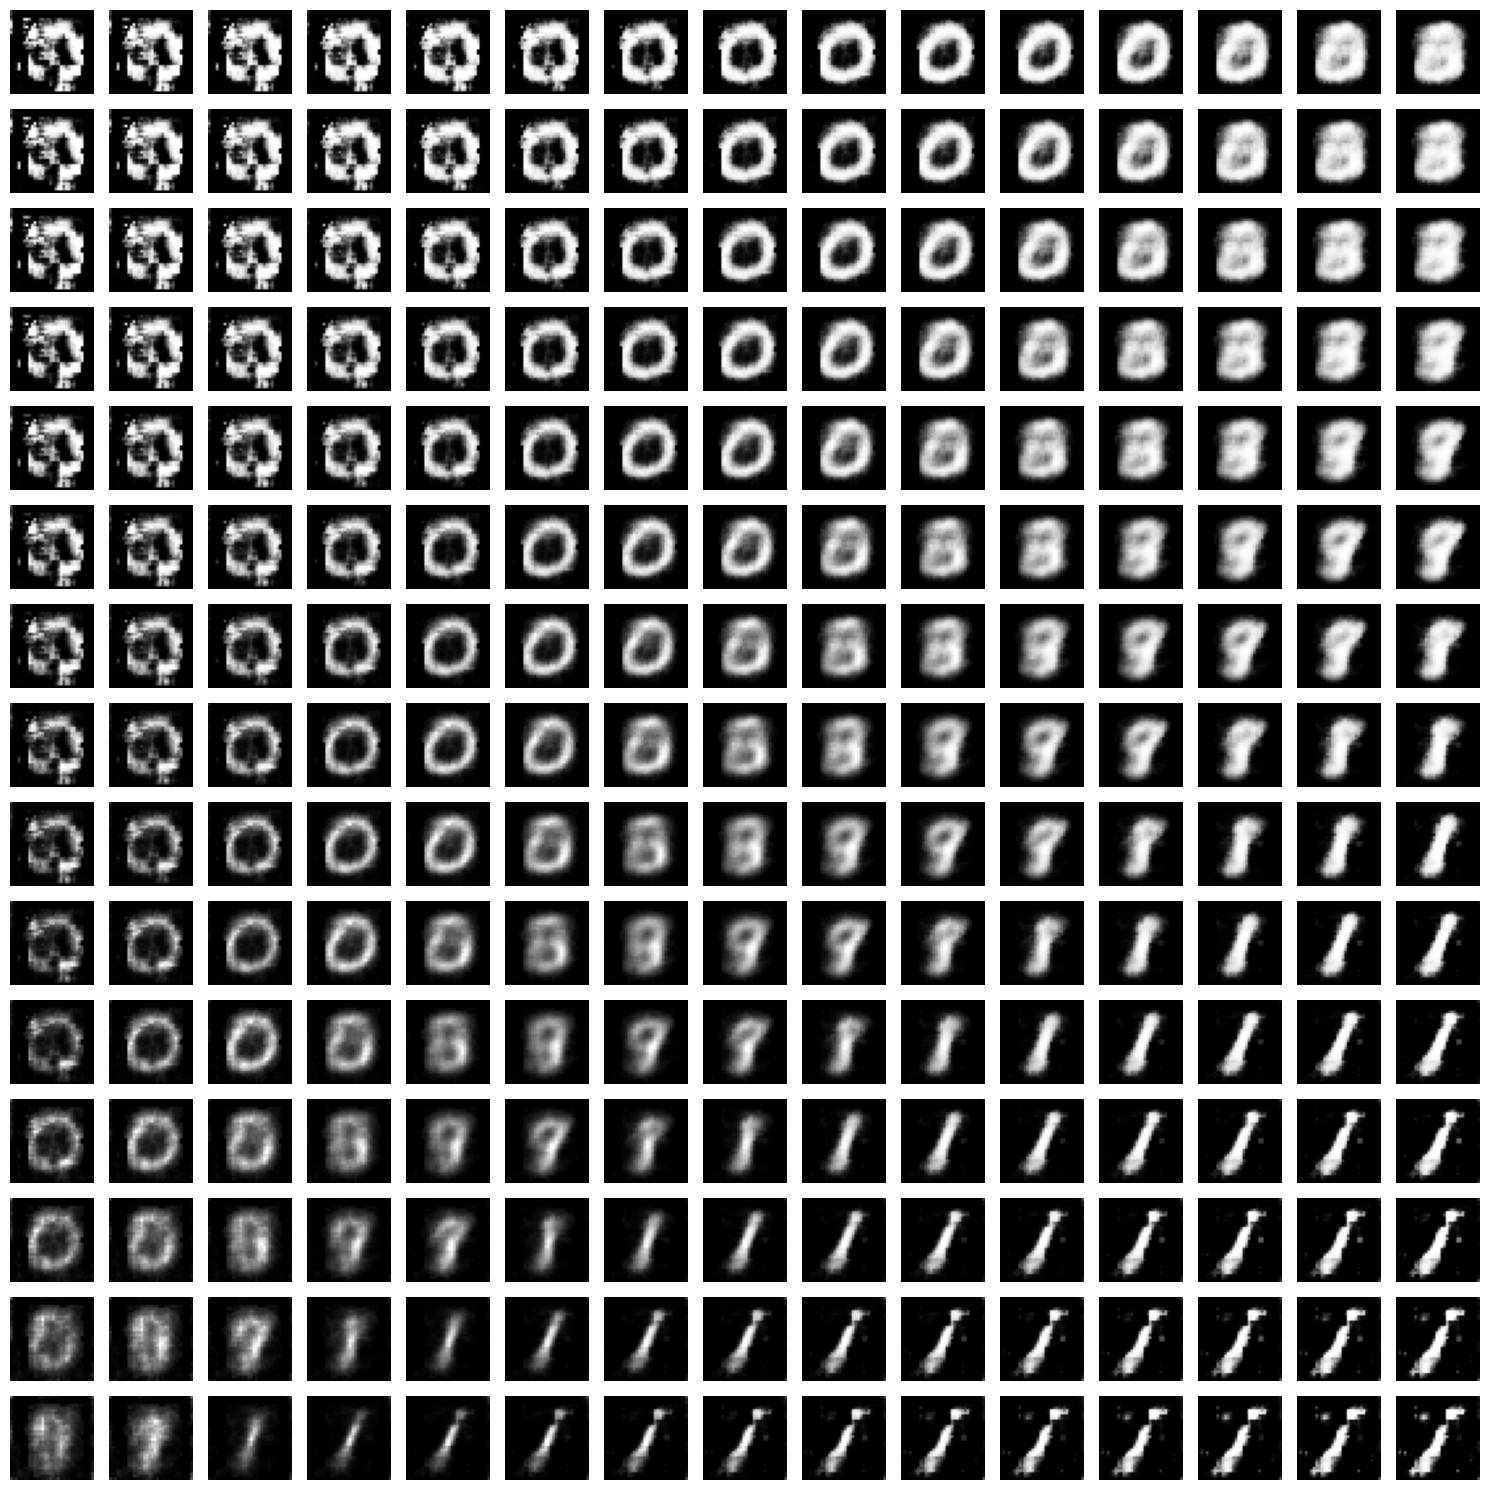
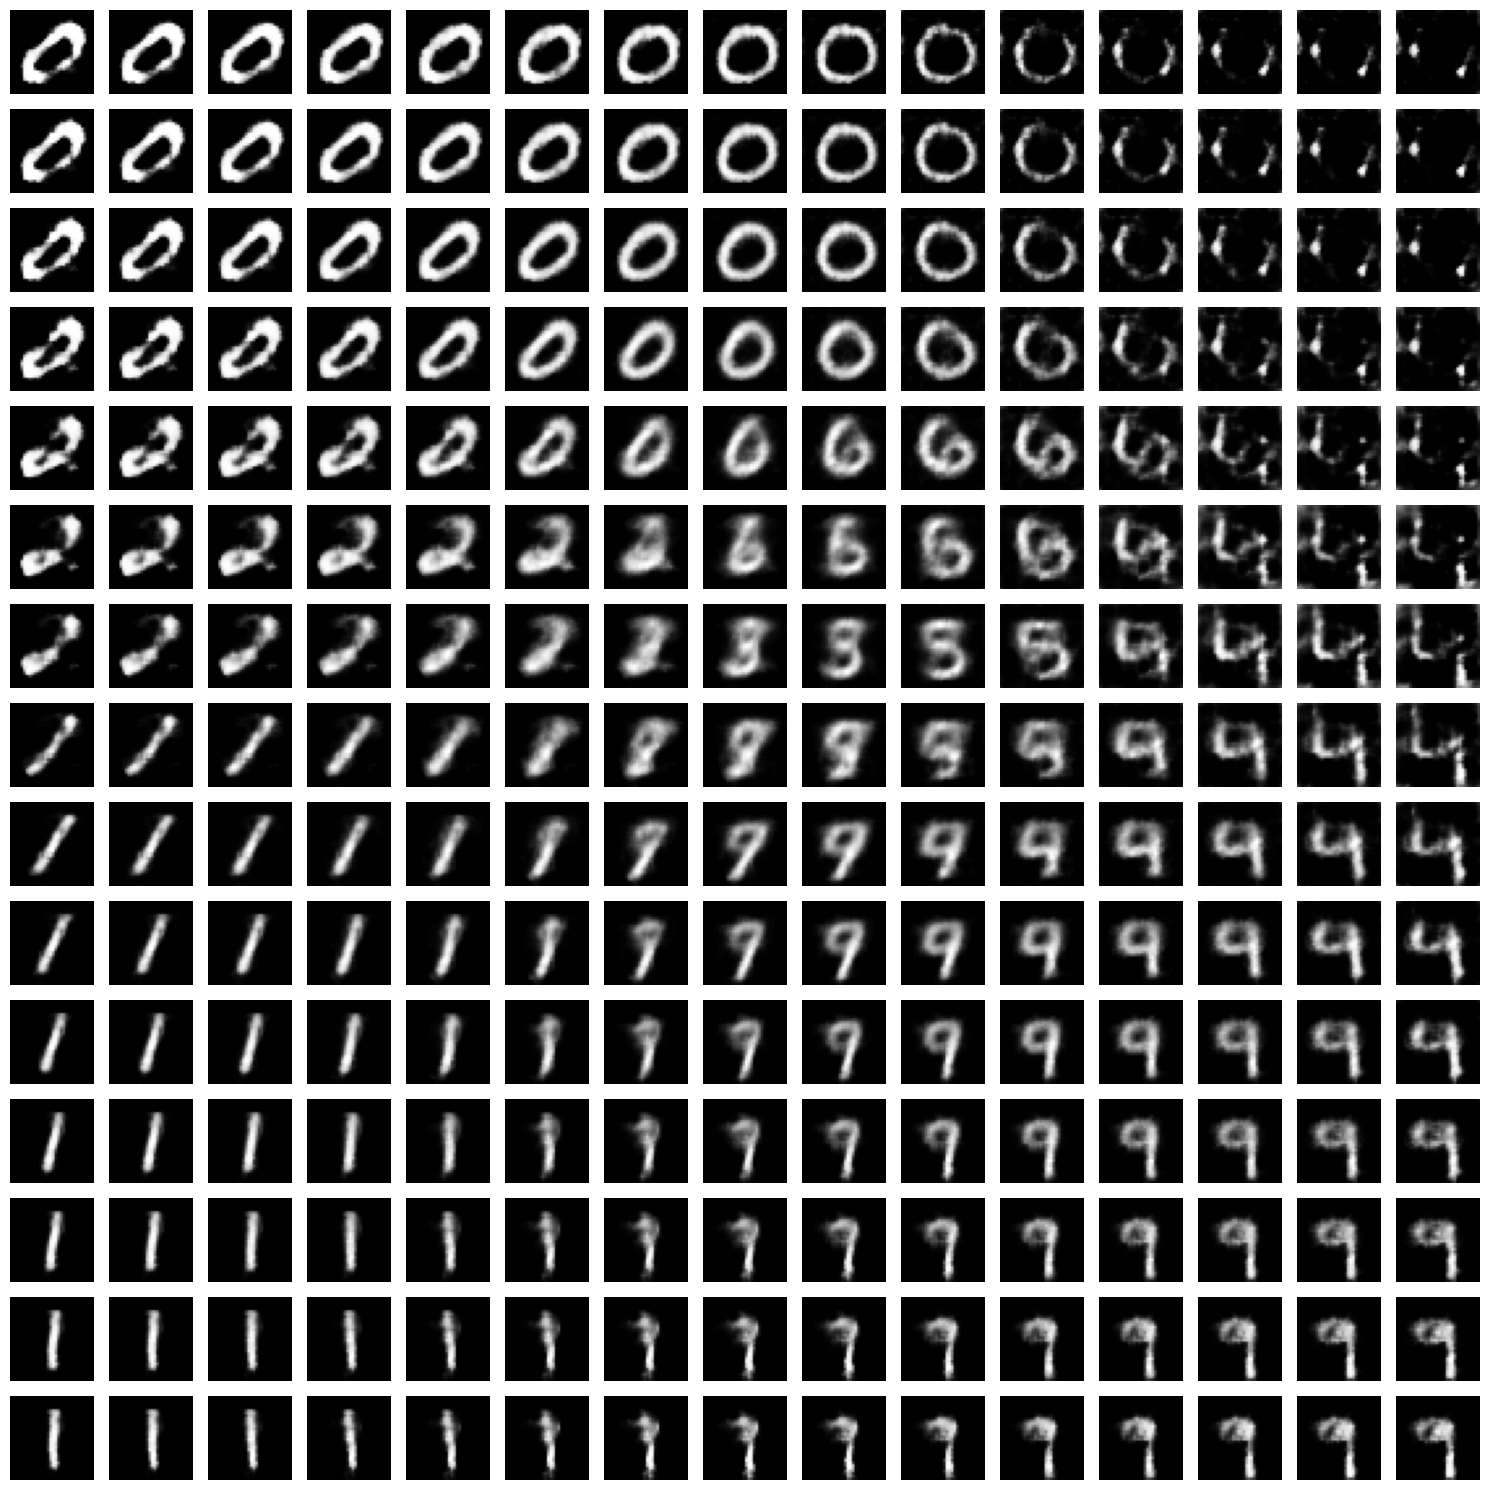
update

diff --git a/autoencoder/cnn.py b/autoencoder/cnn.py
@@ -11,7 +11,7 @@ from torchvision import datasets, transforms
 #%%
 configs = {
     'seed': 42,
-    'channels': [1, 16, 16, 1],
+    'channels': [1, 8, 16, 32],
     'latent_dim': 2,
     'epochs': 20,
     'batch_size': 256,
